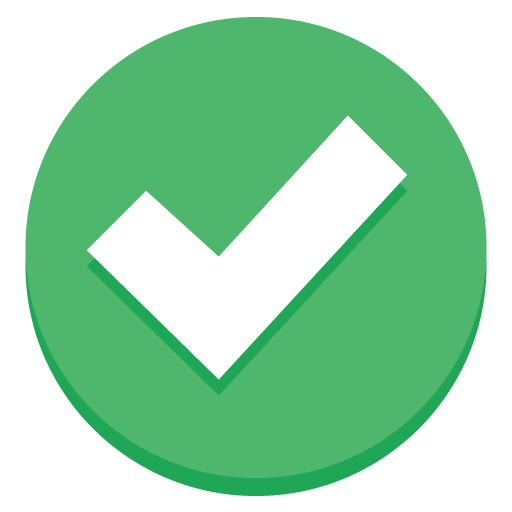
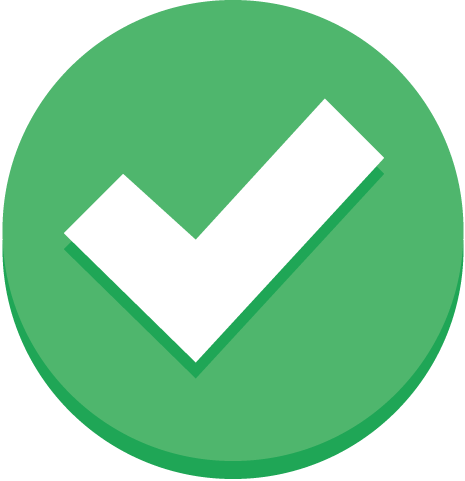
Compress images. Test PGP signing commits (because why not?)

diff --git a/js/main.js b/js/main.js
@@ -5,7 +5,7 @@ function initalize()
 {
 	var data = null;
 
-	$.getJSON("http://localhost:8080/data.json", function(data)
+	$.getJSON("data.json", function(data)
 	{
 
     	data = $.parseJSON(JSON.stringify(data));
@@ -31,7 +31,6 @@ function evalulate(data)
 
 		if (data.results[i].available == true)
 		{
-			console.log(data.results[i].dining_hall);
 			$("#" + data.results[i].dining_hall).append(available);
 		}
 
